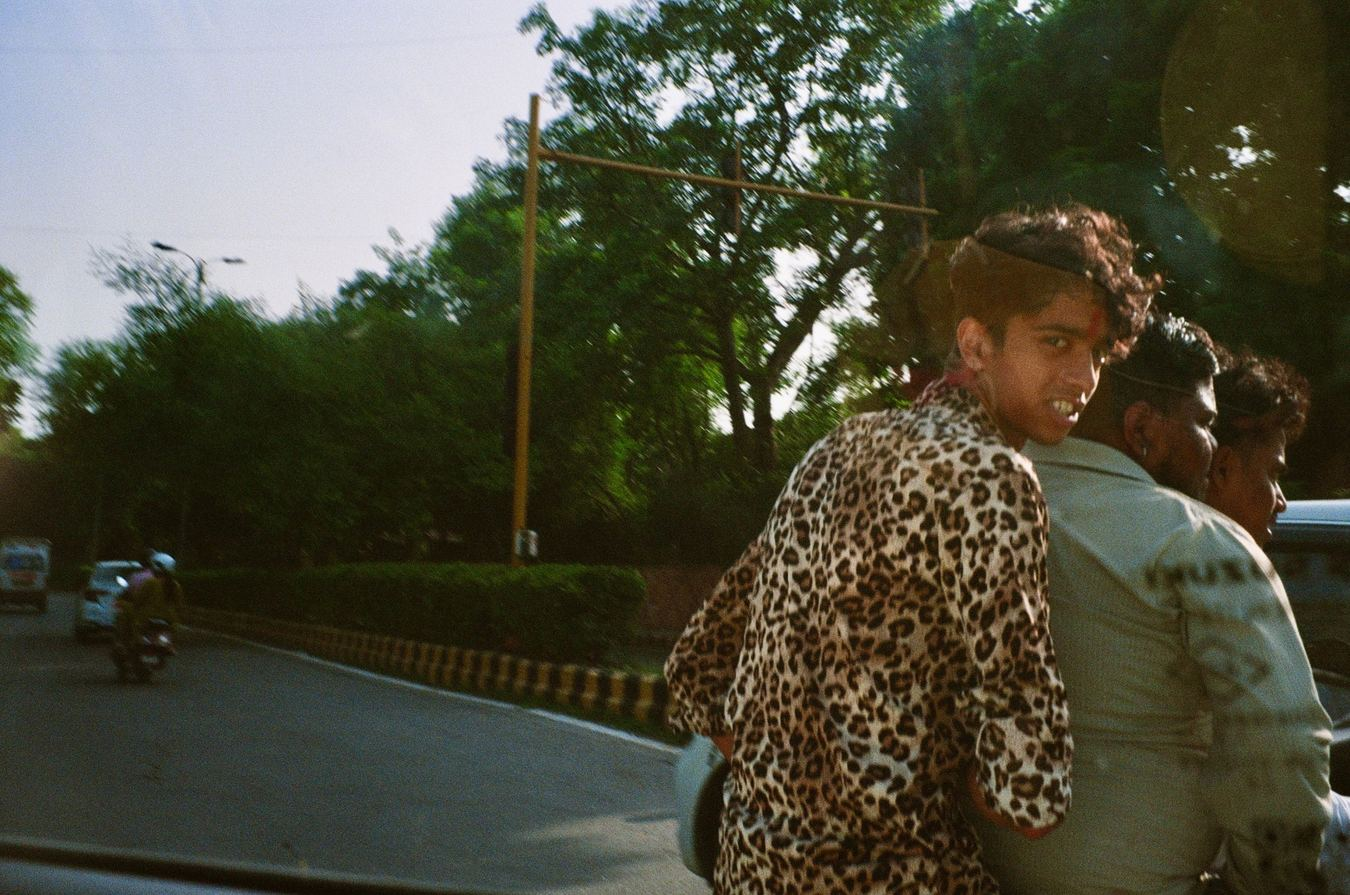
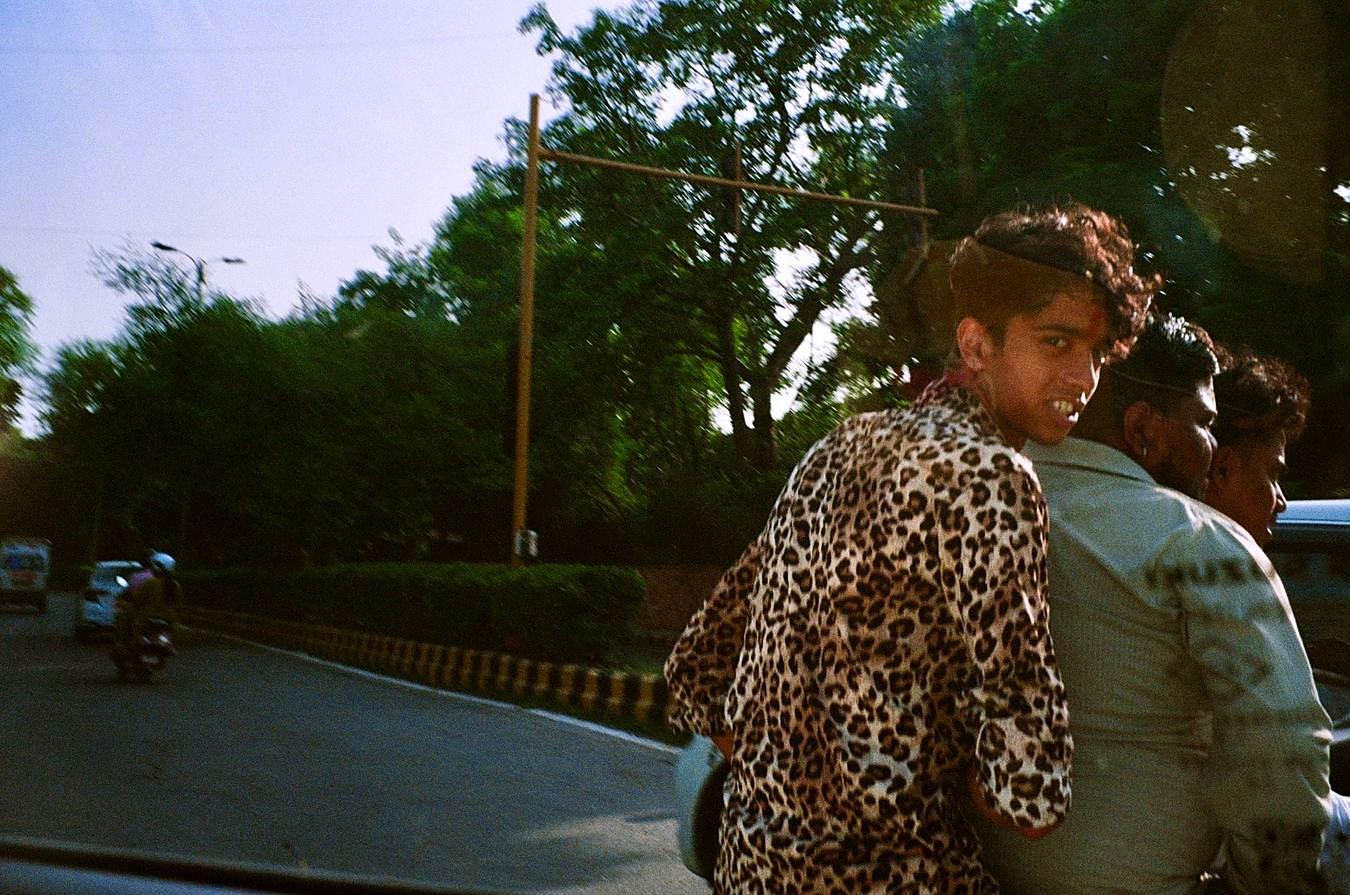
Use color-corrected version of leopard-jacket photo

diff --git a/index.html b/index.html
@@ -14,7 +14,7 @@
 </div>
 <!-- GALLERY START: edit each image alt/data-caption if you want descriptions -->
 <div class="gallery"><div class="gallery-row landscape-row"><button class="photo-card" type="button" aria-label="Open photo 1" onclick="openLightbox(this)"><img loading="lazy" src="assets/gallery/photo-23.jpg" alt="Travel photograph 1" data-name="000009270031 copy.jpeg" data-caption="000009270031 copy.jpeg"></button><button class="photo-card" type="button" aria-label="Open photo 2" onclick="openLightbox(this)"><img loading="lazy" src="assets/gallery/photo-15.jpg" alt="Travel photograph 2" data-name="camels copy.jpeg" data-caption="camels copy.jpeg"></button><button class="photo-card" type="button" aria-label="Open photo 3" onclick="openLightbox(this)"><img loading="lazy" src="assets/gallery/photo-12.jpg" alt="Travel photograph 3" data-name="friends copy.jpeg" data-caption="friends copy.jpeg"></button><button class="photo-card" type="button" aria-label="Open photo 4" onclick="openLightbox(this)"><img loading="lazy" src="assets/gallery/photo-16.jpg" alt="Travel photograph 4" data-name="camels_sit copy.jpeg" data-caption="camels_sit copy.jpeg"></button></div>
-<div class="gallery-row landscape-row"><button class="photo-card" type="button" aria-label="Open photo 5" onclick="openLightbox(this)"><img loading="lazy" src="assets/gallery/photo-63.jpg" alt="Travel photograph 5" data-name="tiled_roof_street.jpg" data-caption="tiled_roof_street.jpg"></button><button class="photo-card" type="button" aria-label="Open photo 6" onclick="openLightbox(this)"><img loading="lazy" src="assets/gallery/photo-14.jpg" alt="Travel photograph 6" data-name="IMG_2668.jpeg" data-caption="IMG_2668.jpeg"></button><button class="photo-card" type="button" aria-label="Open photo 7" onclick="openLightbox(this)"><img loading="lazy" src="assets/gallery/photo-52.jpg" alt="Travel photograph 7" data-name="000009250011 copy.jpeg" data-caption="000009250011 copy.jpeg"></button><button class="photo-card" type="button" aria-label="Open photo 8" onclick="openLightbox(this)"><img loading="lazy" src="assets/gallery/photo-64.jpg" alt="Travel photograph 8" data-name="rickshaw.jpg" data-caption="rickshaw.jpg"></button></div>
+<div class="gallery-row landscape-row"><button class="photo-card" type="button" aria-label="Open photo 5" onclick="openLightbox(this)"><img loading="lazy" src="assets/gallery/photo-63.jpg" alt="Travel photograph 5" data-name="tiled_roof_street.jpg" data-caption="tiled_roof_street.jpg"></button><button class="photo-card" type="button" aria-label="Open photo 6" onclick="openLightbox(this)"><img loading="lazy" src="assets/gallery/photo-14.jpg" alt="Travel photograph 6" data-name="IMG_2668.jpeg" data-caption="IMG_2668.jpeg"></button><button class="photo-card" type="button" aria-label="Open photo 7" onclick="openLightbox(this)"><img loading="lazy" src="assets/gallery/photo-52.jpg?v=2" alt="Travel photograph 7" data-name="000009250011 copy.jpeg" data-caption="000009250011 copy.jpeg"></button><button class="photo-card" type="button" aria-label="Open photo 8" onclick="openLightbox(this)"><img loading="lazy" src="assets/gallery/photo-64.jpg" alt="Travel photograph 8" data-name="rickshaw.jpg" data-caption="rickshaw.jpg"></button></div>
 <div class="gallery-row portrait-row"><button class="photo-card" type="button" aria-label="Open photo 9" onclick="openLightbox(this)"><img loading="lazy" src="assets/gallery/photo-31.jpg" alt="Travel photograph 9" data-name="vines_morocco copy(1).jpeg" data-caption="vines_morocco copy(1).jpeg"></button><button class="photo-card" type="button" aria-label="Open photo 10" onclick="openLightbox(this)"><img loading="lazy" src="assets/gallery/photo-67.jpg" alt="Travel photograph 10" data-name="cat_gate.jpg" data-caption="cat_gate.jpg"></button><button class="photo-card" type="button" aria-label="Open photo 11" onclick="openLightbox(this)"><img loading="lazy" src="assets/gallery/photo-45.jpg" alt="Travel photograph 11" data-name="000009250019 copy.jpeg" data-caption="000009250019 copy.jpeg"></button><button class="photo-card" type="button" aria-label="Open photo 12" onclick="openLightbox(this)"><img loading="lazy" src="assets/gallery/photo-30.jpg" alt="Travel photograph 12" data-name="orange_building copy.jpeg" data-caption="orange_building copy.jpeg"></button><button class="photo-card" type="button" aria-label="Open photo 13" onclick="openLightbox(this)"><img loading="lazy" src="assets/gallery/photo-58.jpg" alt="Travel photograph 13" data-name="000009250017 copy.jpeg" data-caption="000009250017 copy.jpeg"></button></div>
 <div class="gallery-row landscape-row"><button class="photo-card" type="button" aria-label="Open photo 14" onclick="openLightbox(this)"><img loading="lazy" src="assets/gallery/photo-44.jpg" alt="Travel photograph 14" data-name="000009250035 copy.jpeg" data-caption="000009250035 copy.jpeg"></button><button class="photo-card" type="button" aria-label="Open photo 15" onclick="openLightbox(this)"><img loading="lazy" src="assets/gallery/photo-02.jpg" alt="Travel photograph 15" data-name="rocky_hill copy.jpeg" data-caption="rocky_hill copy.jpeg"></button><button class="photo-card" type="button" aria-label="Open photo 16" onclick="openLightbox(this)"><img loading="lazy" src="assets/gallery/photo-09.jpg" alt="Travel photograph 16" data-name="ceiling copy.jpeg" data-caption="ceiling copy.jpeg"></button><button class="photo-card" type="button" aria-label="Open photo 17" onclick="openLightbox(this)"><img loading="lazy" src="assets/gallery/photo-61.jpg" alt="Travel photograph 17" data-name="000003970022 copy.jpeg" data-caption="000003970022 copy.jpeg"></button></div>
 <div class="gallery-row landscape-row"><button class="photo-card" type="button" aria-label="Open photo 18" onclick="openLightbox(this)"><img loading="lazy" src="assets/gallery/photo-51.jpg" alt="Travel photograph 18" data-name="000009250003 copy.jpeg" data-caption="000009250003 copy.jpeg"></button><button class="photo-card" type="button" aria-label="Open photo 19" onclick="openLightbox(this)"><img loading="lazy" src="assets/gallery/photo-11.jpg" alt="Travel photograph 19" data-name="entrance copy.jpeg" data-caption="entrance copy.jpeg"></button><button class="photo-card" type="button" aria-label="Open photo 20" onclick="openLightbox(this)"><img loading="lazy" src="assets/gallery/photo-62.jpg" alt="Travel photograph 20" data-name="000003970032 copy.jpeg" data-caption="000003970032 copy.jpeg"></button><button class="photo-card" type="button" aria-label="Open photo 21" onclick="openLightbox(this)"><img loading="lazy" src="assets/gallery/photo-60.jpg" alt="Travel photograph 21" data-name="000003970010 copy.jpeg" data-caption="000003970010 copy.jpeg"></button></div>
